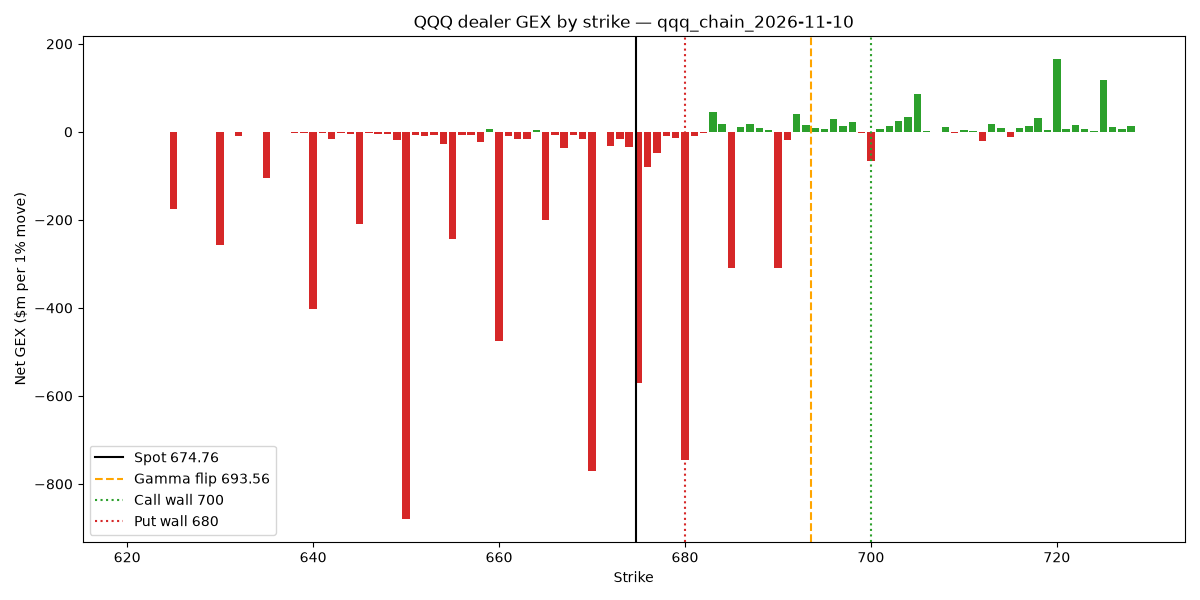
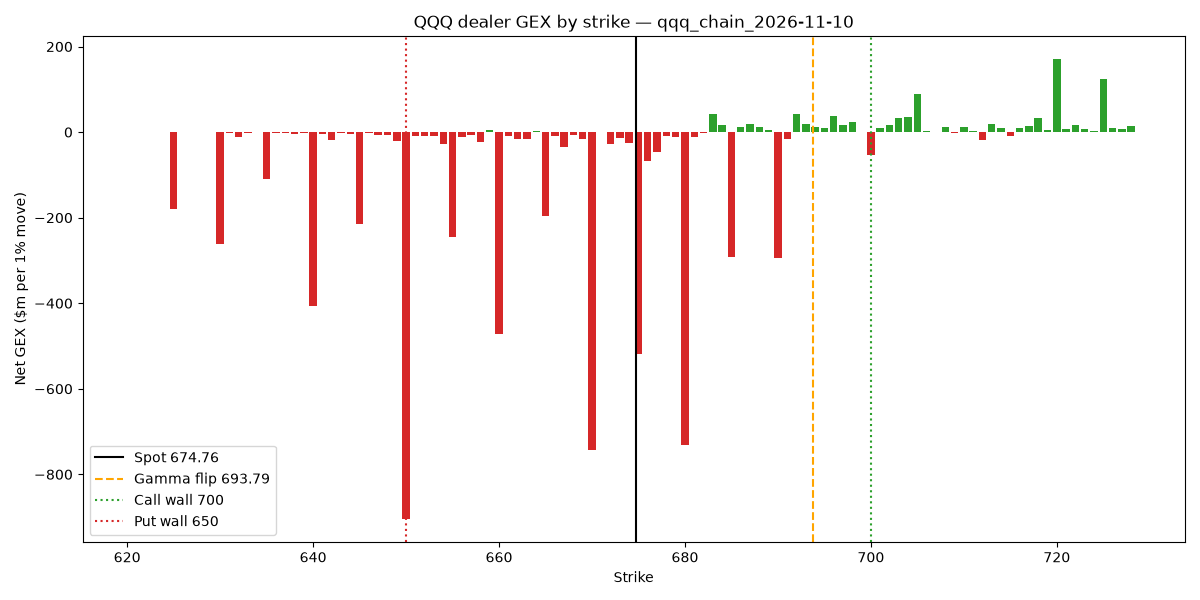
add readme + new chart

diff --git a/README.md b/README.md
@@ -1,0 +1,56 @@
+# Do GEX Levels Work?
+
+I trade Nasdaq futures, and a lot of options-flow traders (me included) mark "gamma levels" on their charts. The idea is that market makers hedge their options positions in a way that pushes price around, so certain levels should act as support, resistance, or a switch between calm and volatile markets.
+
+These levels usually come from paid dashboards and get treated as fact. I wanted to build them myself from raw options data and then test whether price actually respects them.
+
+**Status:** in progress. Data collection and the GEX calculation work. The tests are next.
+
+![QQQ dealer GEX by strike, 10 Nov 2026](results/gex_2026-11-10.png)
+
+*Each bar is the dealer gamma at one strike. Red means dealers amplify moves there, green means they dampen them. The orange line is the gamma flip.*
+
+## What it calculates
+
+Every evening, `collect.py` downloads the full QQQ option chain (around 9,000 contracts) and `gex.py` works out:
+
+- **Total GEX:** whether dealers are overall dampening moves (positive) or amplifying them (negative)
+- **Gamma flip:** the price where that switches
+- **Call wall:** the biggest call gamma strike above price, which traders treat as resistance
+- **Put wall:** the biggest put gamma strike below price, which traders treat as support
+
+On 10 November 2026, QQQ closed at 674.76, with total GEX of −$4.97bn, the gamma flip at 693.79, the call wall at 700 and the put wall at 650. Price was well below the flip, so in theory dealers were amplifying moves that day.
+
+## How it works
+
+For each option, I calculate gamma using Black-Scholes, then multiply by open interest to get the dollars of QQQ dealers would need to trade for a 1% move. Adding these up by strike gives the GEX profile in the chart.
+
+The biggest assumption is the sign: I assume dealers are long calls and short puts, which is the standard assumption in GEX models. Nobody outside the dealers actually knows their positions, so every GEX number anyone shows you rests on a guess like this.
+
+I also dropped expired options, options with no open interest, and implausible implied volatilities, since free data has a lot of noise. My first version accidentally kept options that had expired that afternoon, which created a fake "wall" right at the current price. Fixing that time zone bug changed the levels noticeably.
+
+## What I'm going to test
+
+1. **Regime:** do days that open below the gamma flip really have bigger ranges and more trending than days above it?
+2. **Walls:** does price bounce off the call and put walls more often than off random levels the same distance away? Price bounces off plenty of levels by chance, so the random comparison is what shows whether the walls mean anything.
+
+I'm writing down what counts as a pass before looking at the results, so I can't explain the outcome after the fact.
+
+## Limitations
+
+- Dealer positions aren't public, so the long calls / short puts assumption could be wrong.
+- Open interest only updates once a day, so intraday and 0DTE positioning is missed.
+- Free Yahoo Finance data is noisy.
+- QQQ is only part of the Nasdaq options market. NDX and NQ futures options also matter.
+- I only started collecting data, so the sample is small for now.
+
+## Running it
+
+```
+python3 -m venv .venv
+.venv/bin/python -m pip install -r requirements.txt
+.venv/bin/python src/collect.py
+.venv/bin/python src/gex.py
+```
+
+Run `collect.py` after the US market closes. The data is saved to `data/`, which isn't uploaded here.
